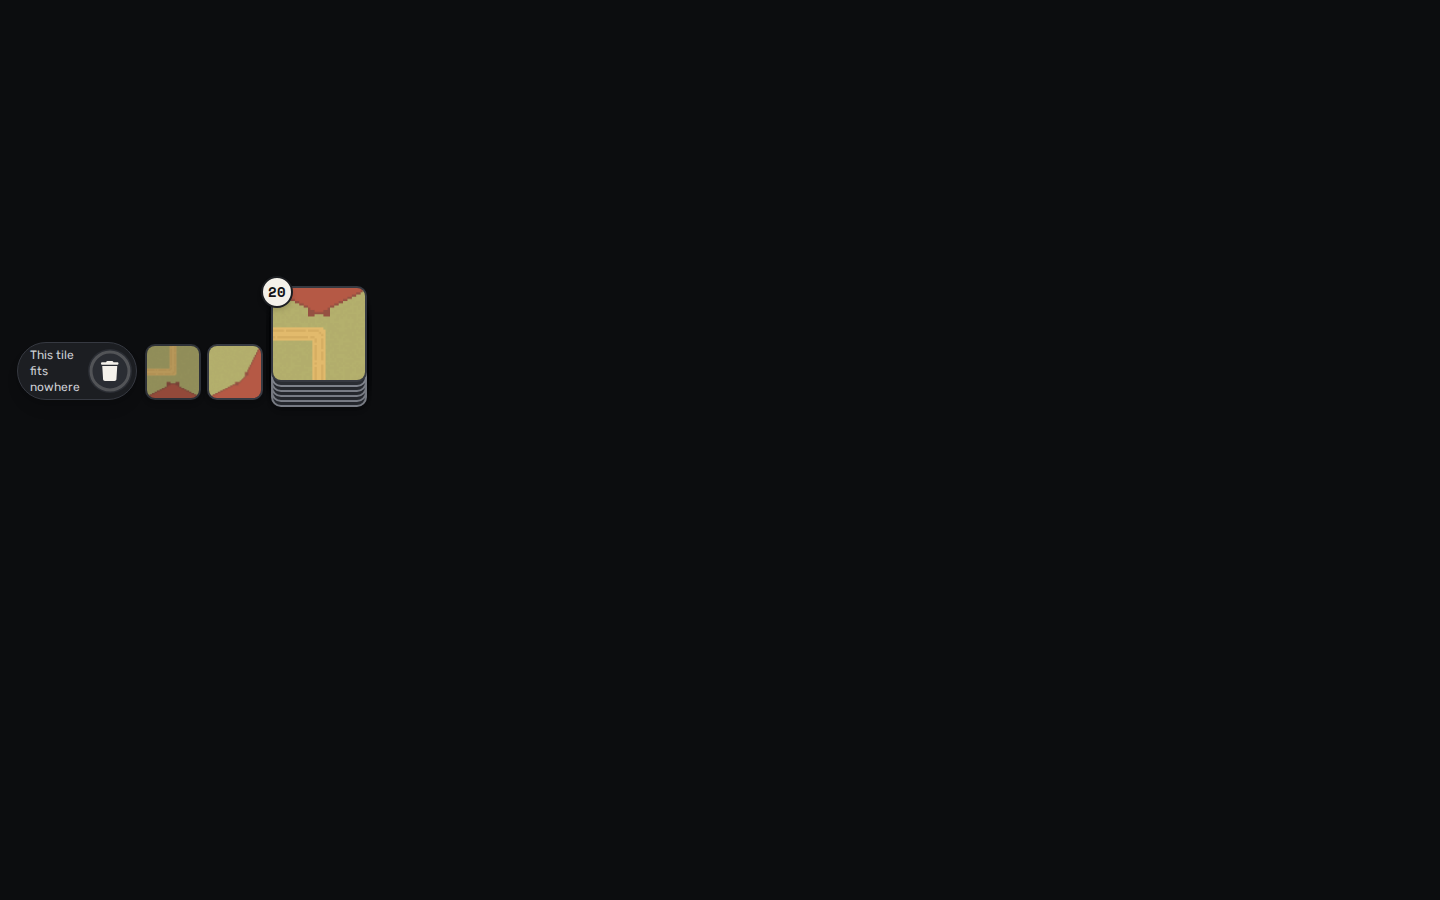
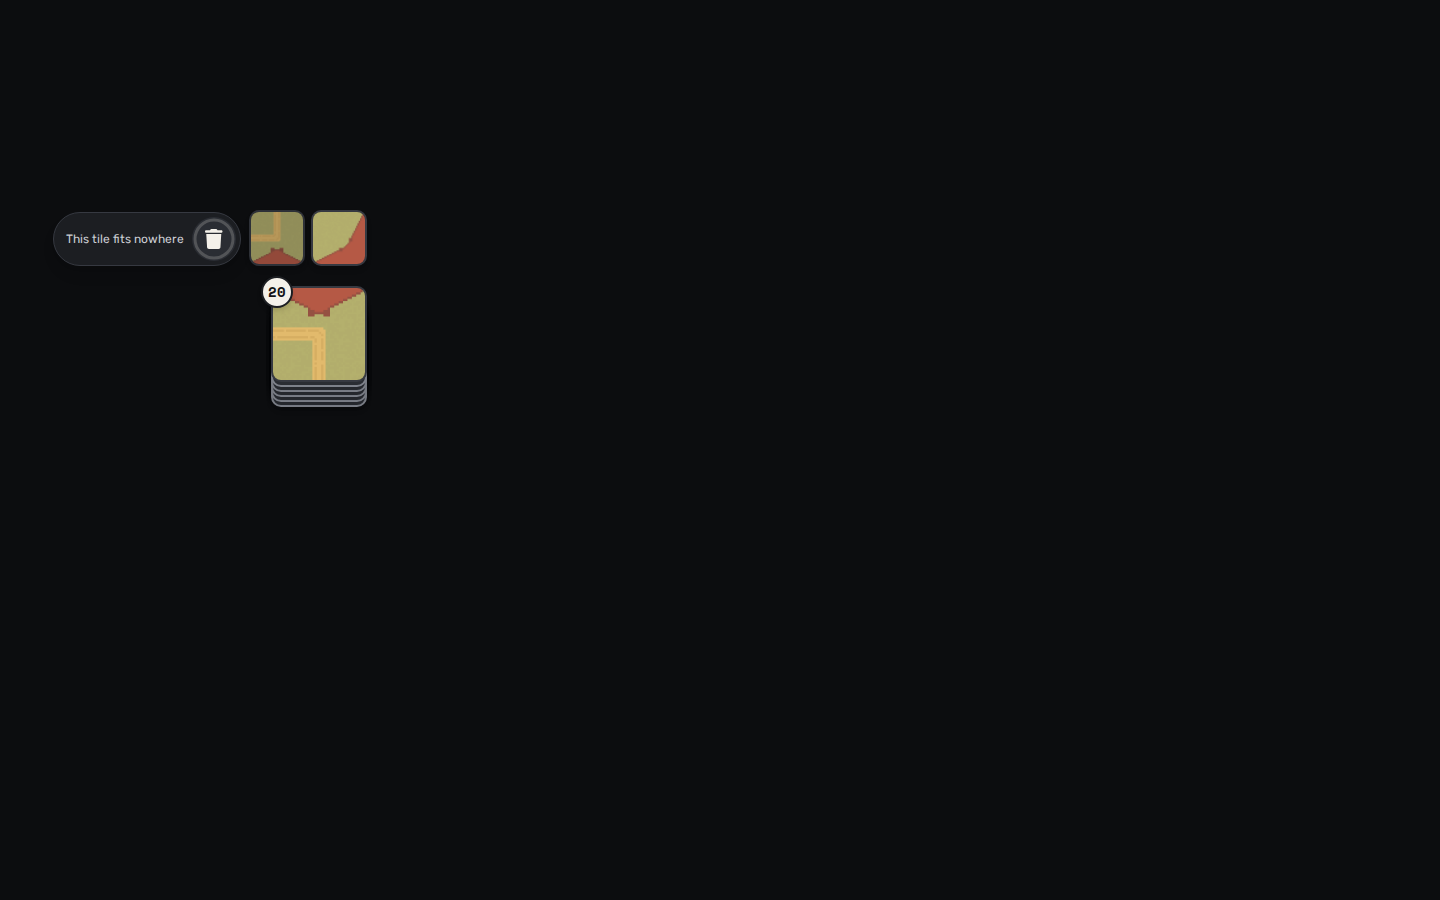
NEXT-TILES-UI: the hand's row wraps at 320 px (wrap sweep)
With the queue and a tile that fits nowhere, the stack's Discard and its text
left the viewport at 320 px. The row now wraps: the Discard goes above the
coming tiles. The sweep of the TileStack and board queue stories is clean at
360 and 320 px; the fits-nowhere captures are taken again.

Changed region(s): [[0.0312, 0.2178, 0.2812, 0.3111], [0.0, 0.3733, 0.1875, 0.4667]]

diff --git a/packages/app/src/components/containers/tile-stack.tsx b/packages/app/src/components/containers/tile-stack.tsx
@@ -172,7 +172,8 @@ export function TileStack({
           {busy ? "Placing…" : "Tap a lit slot on the board."}
         </p>
       )}
-      <div className="flex items-end gap-2">
+      {/* The row wraps on the narrowest phones: the stack's Discard, with its "fits nowhere", goes above the queue. */}
+      <div className="flex flex-wrap items-end justify-end gap-2">
         {/* The stack's Discard: while no cell is chosen (then it is the bubble's, on the tile). */}
         {canDiscard && !cellChosen && onDiscard && (
           <div data-testid="stack-discard" className="pointer-events-auto mb-3 flex items-center gap-2 rounded-full border bg-card p-1 shadow-lg">
